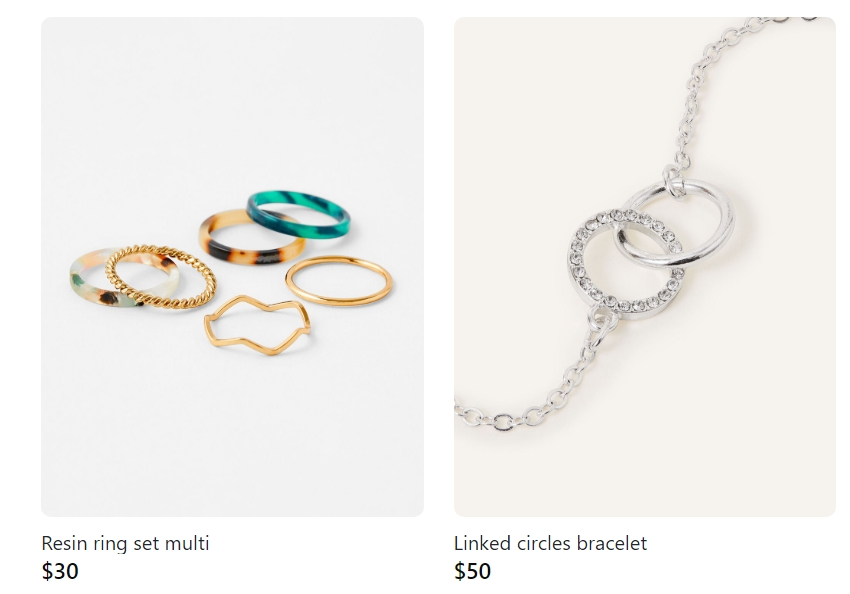
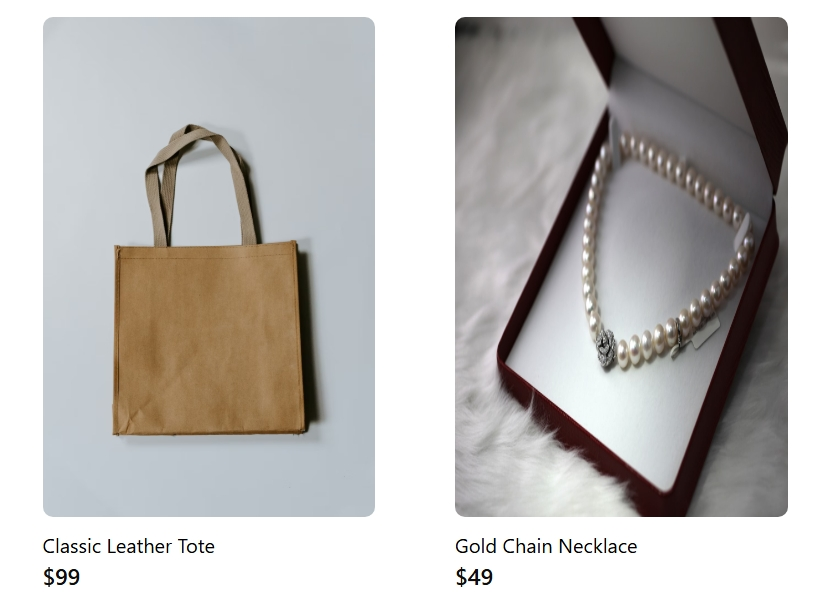
update

diff --git a/app/Components/Portfolio.js b/app/Components/Portfolio.js
@@ -28,7 +28,7 @@ const Portfolio = () => {
       category: "fullstack",
       title: "Chat Application",
       desc: "Real-time chat application using Socket.io and MERN stack",
-      img: "chat_app.jpeg",
+      img: "chats.png",
       live: "https://chat-app-bxnf.vercel.app/",
       github: "https://github.com/turgaymd/chat_app",
     },
@@ -93,7 +93,7 @@ const Portfolio = () => {
         <h4>Projects I have worked on</h4>
       </div>
       <div className="container">
-        <ul className="nav nav-tabs nav-fill justify-center" role="tabList">
+        {/* <ul className="nav nav-tabs nav-fill justify-center" role="tabList">
           <div className="d-flex ">
             <li className="nav-item" role="presentation">
               <a
@@ -136,7 +136,7 @@ const Portfolio = () => {
               </a>
             </li>
           </div>
-        </ul>
+        </ul> */}
         <div className="row pt-3" id="projects">
           {filteringProjects.map((item) => {
             return (
